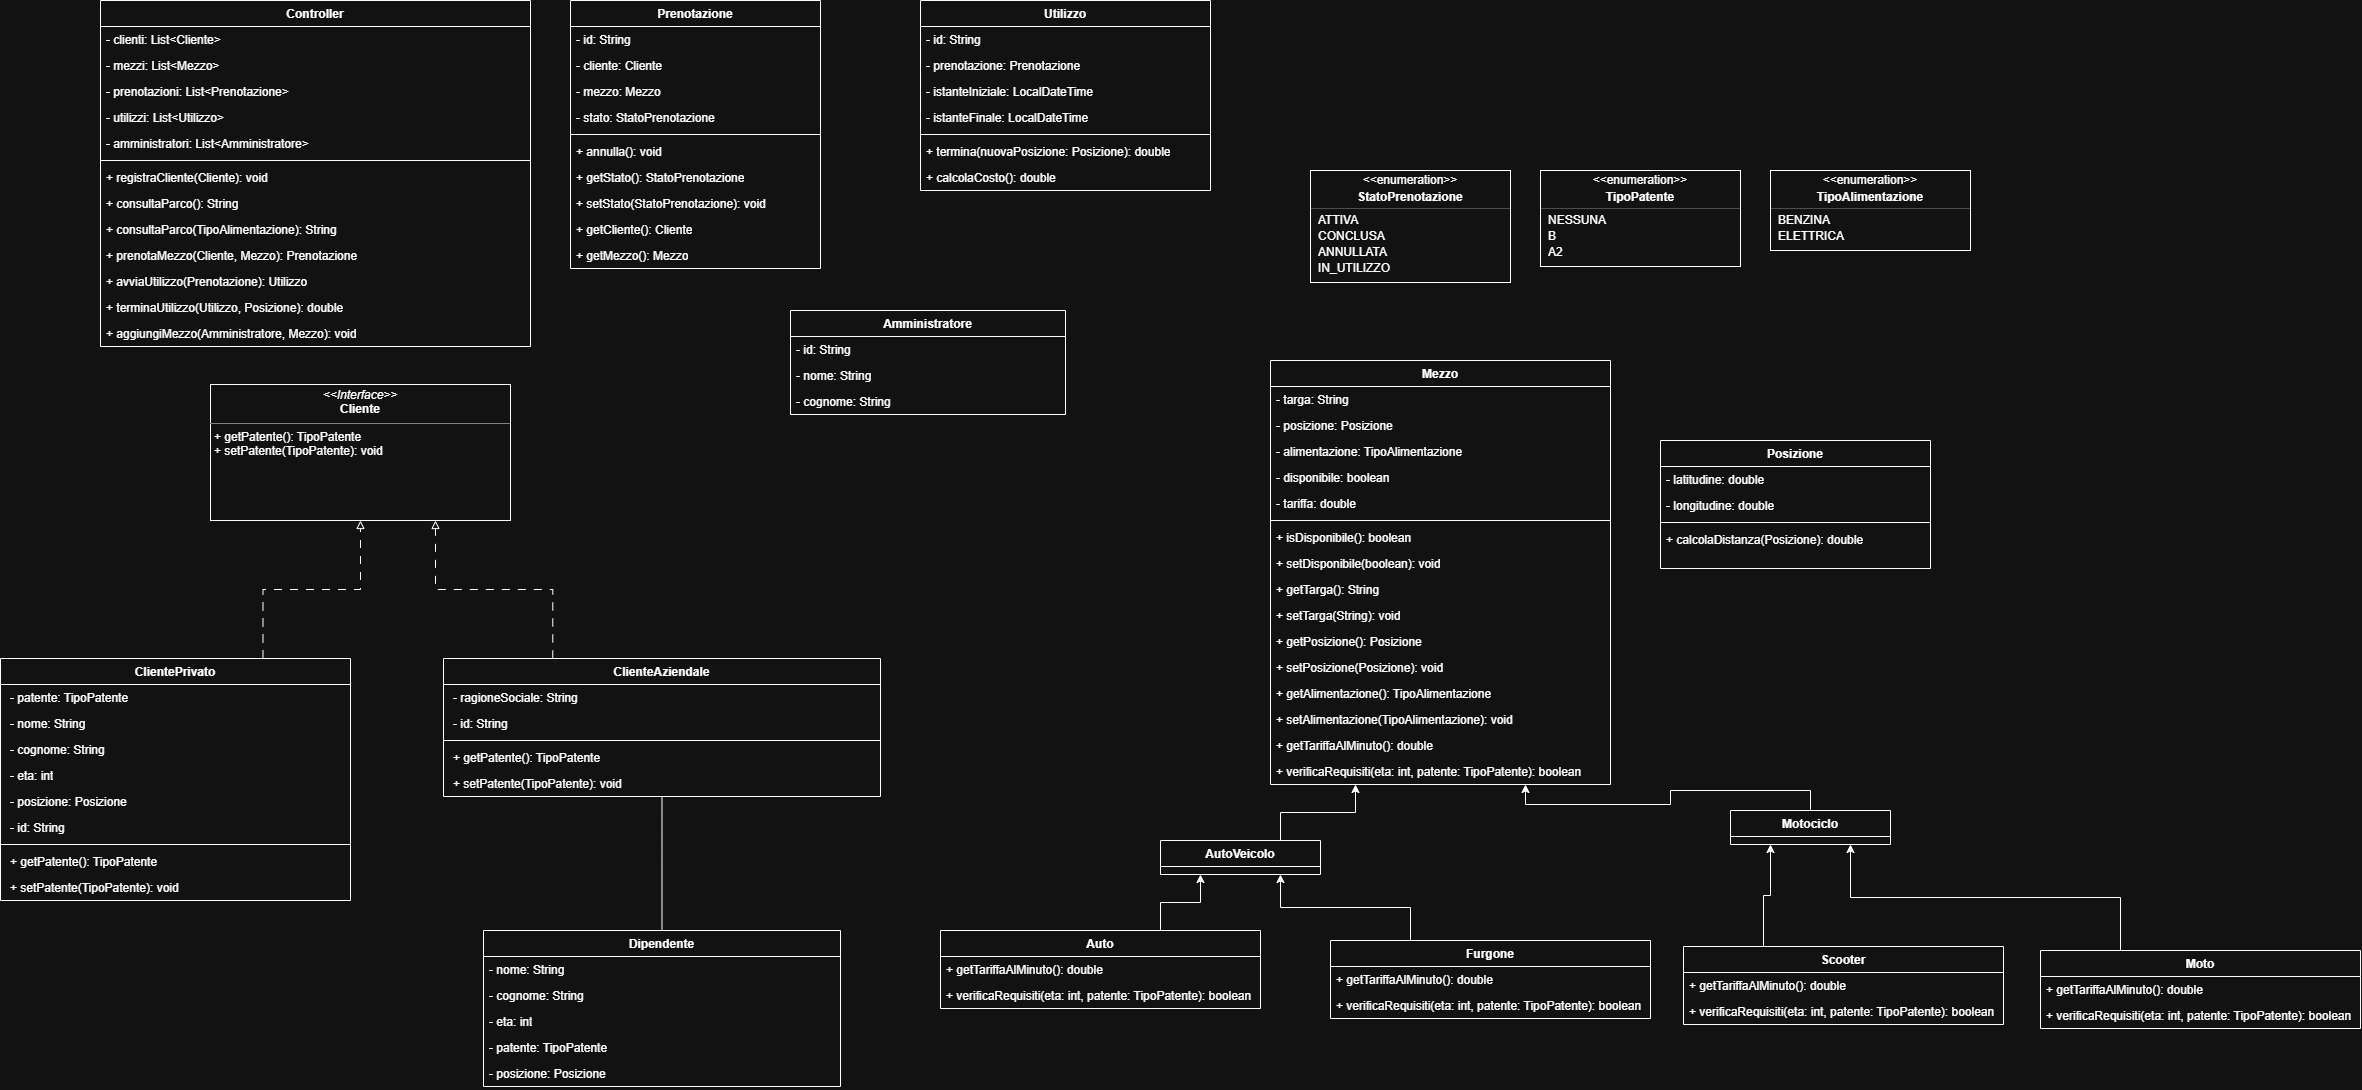
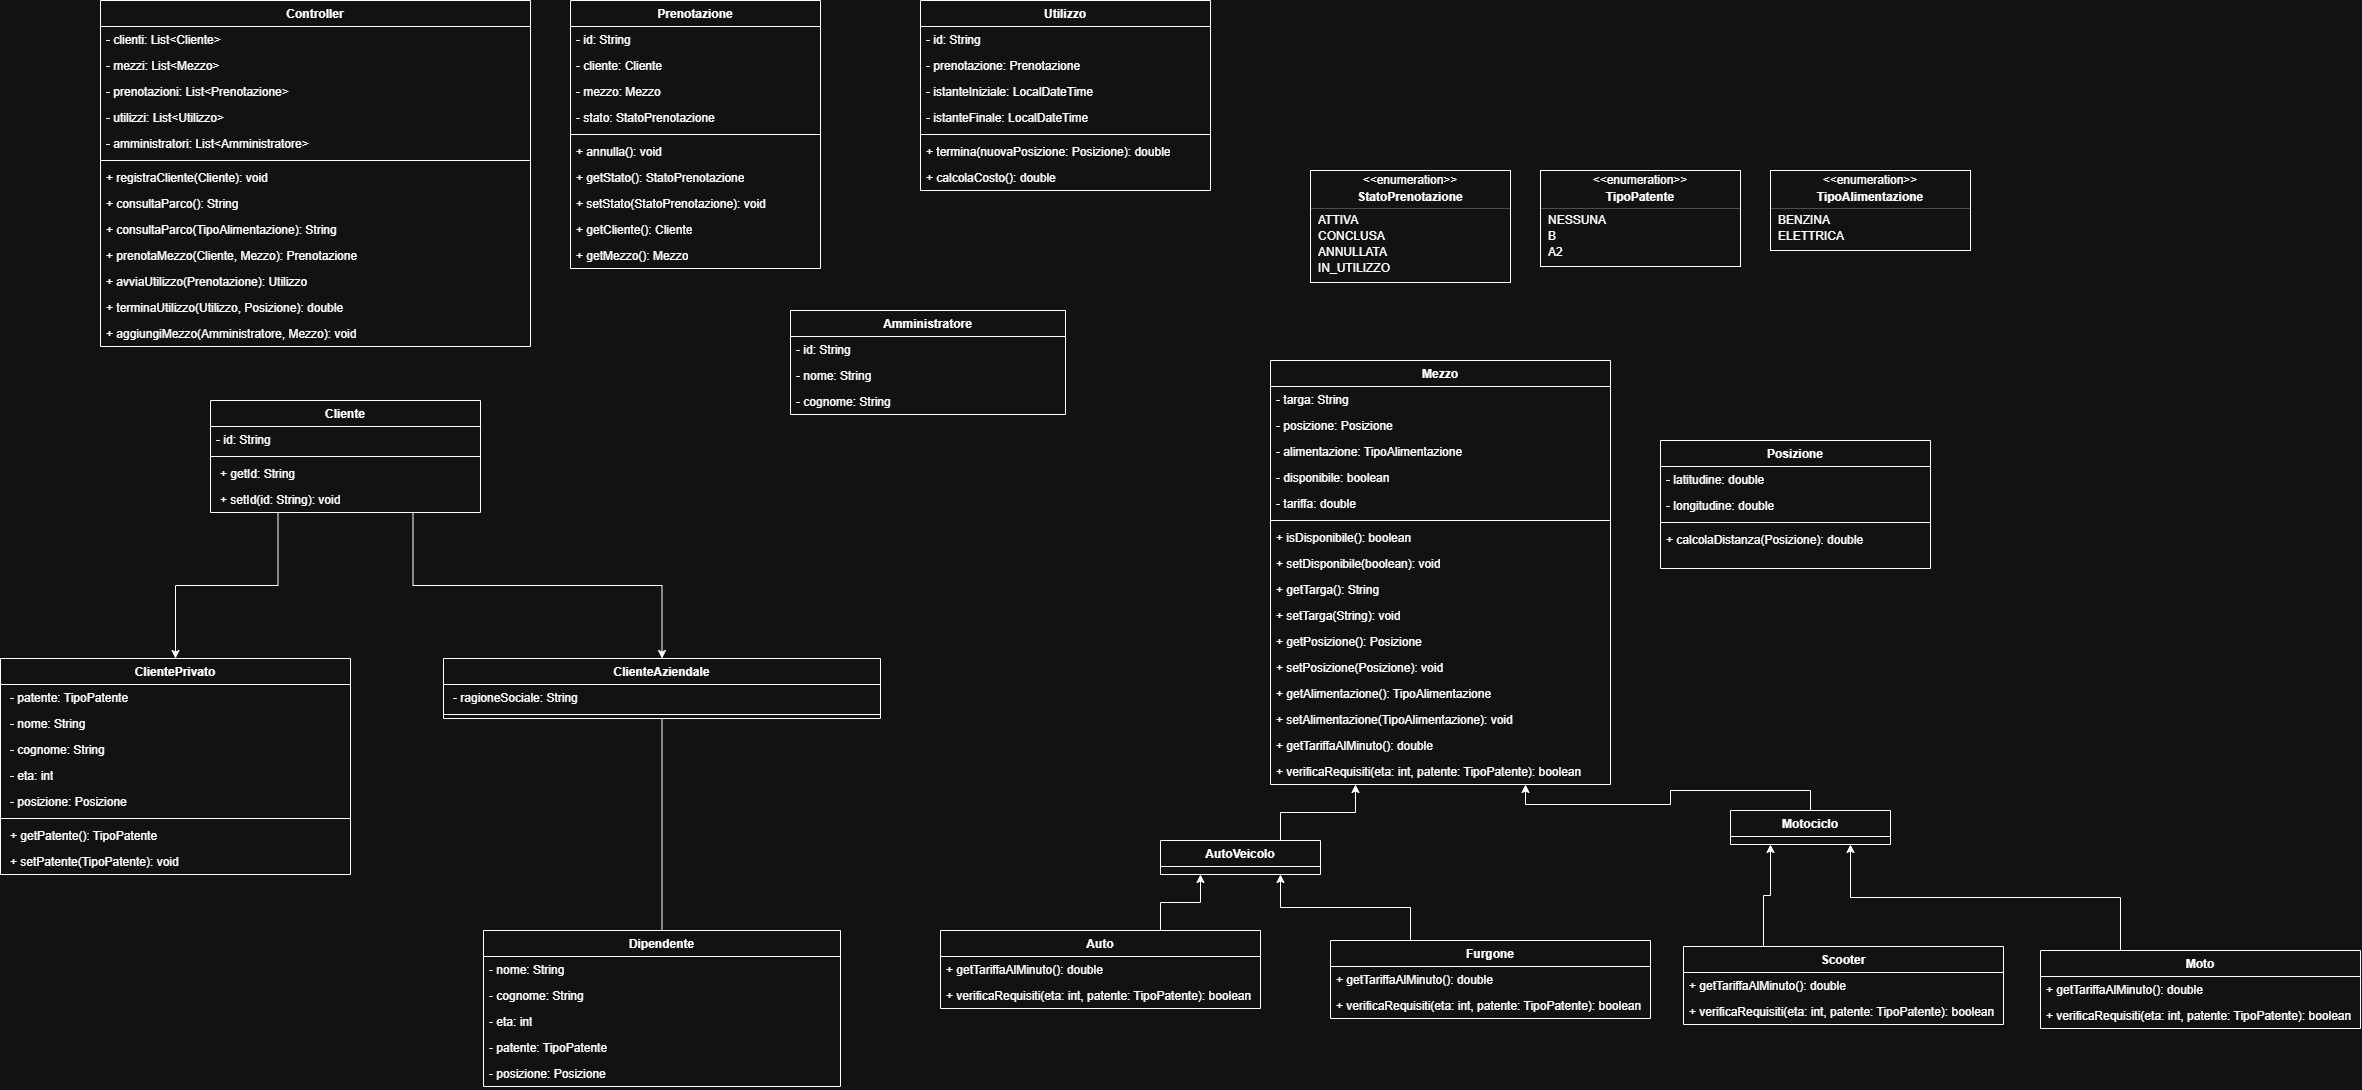
SPRINT 2 - DIAGRAMMA DELLE CLASSI: modifica alla parte dei clienti. Rimossa interface Cliente, diventa classe astratta.

diff --git a/Bikar/src/it/unipv/sfw/bikar/Amministratore.java b/Bikar/src/it/unipv/sfw/bikar/Amministratore.java
@@ -1,0 +1,5 @@
+package it.unipv.sfw.bikar;
+
+public class Amministratore {
+	private String id, nome, cognome;
+}
